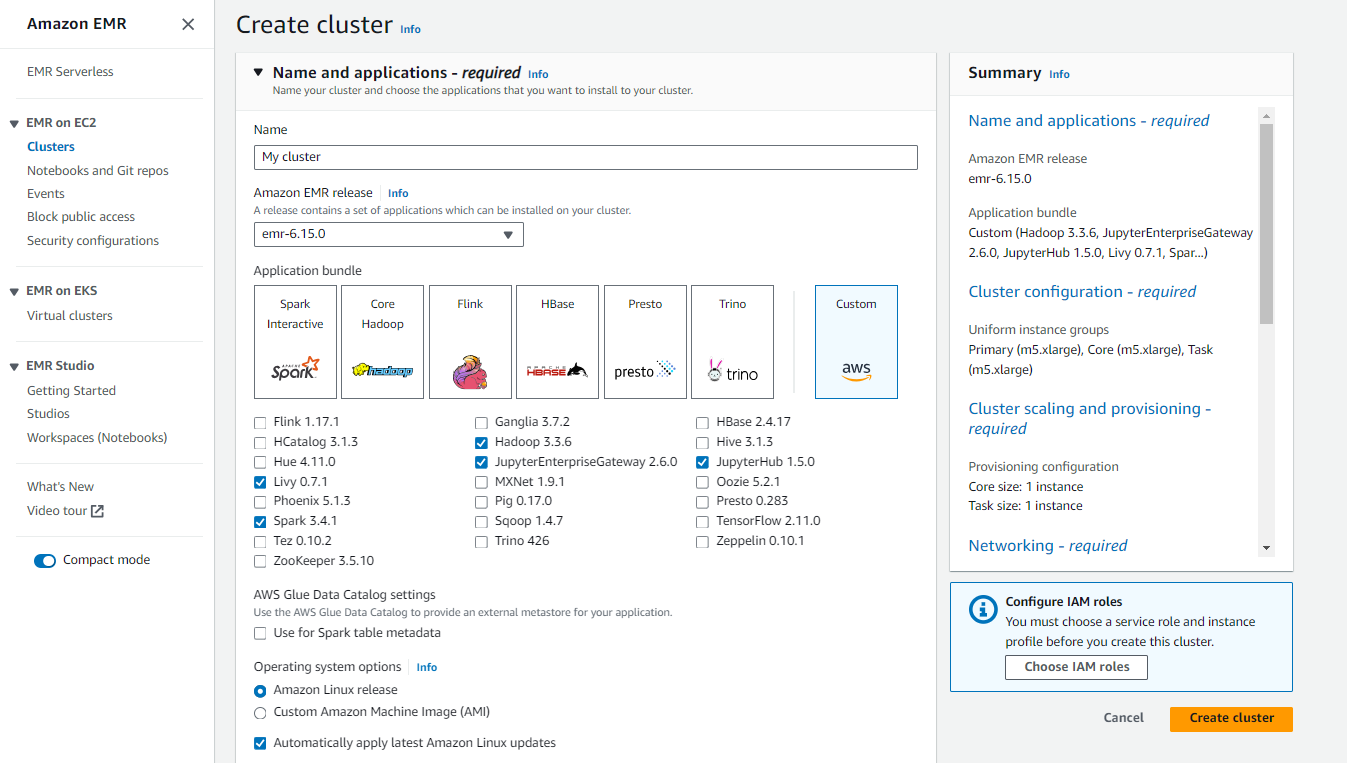
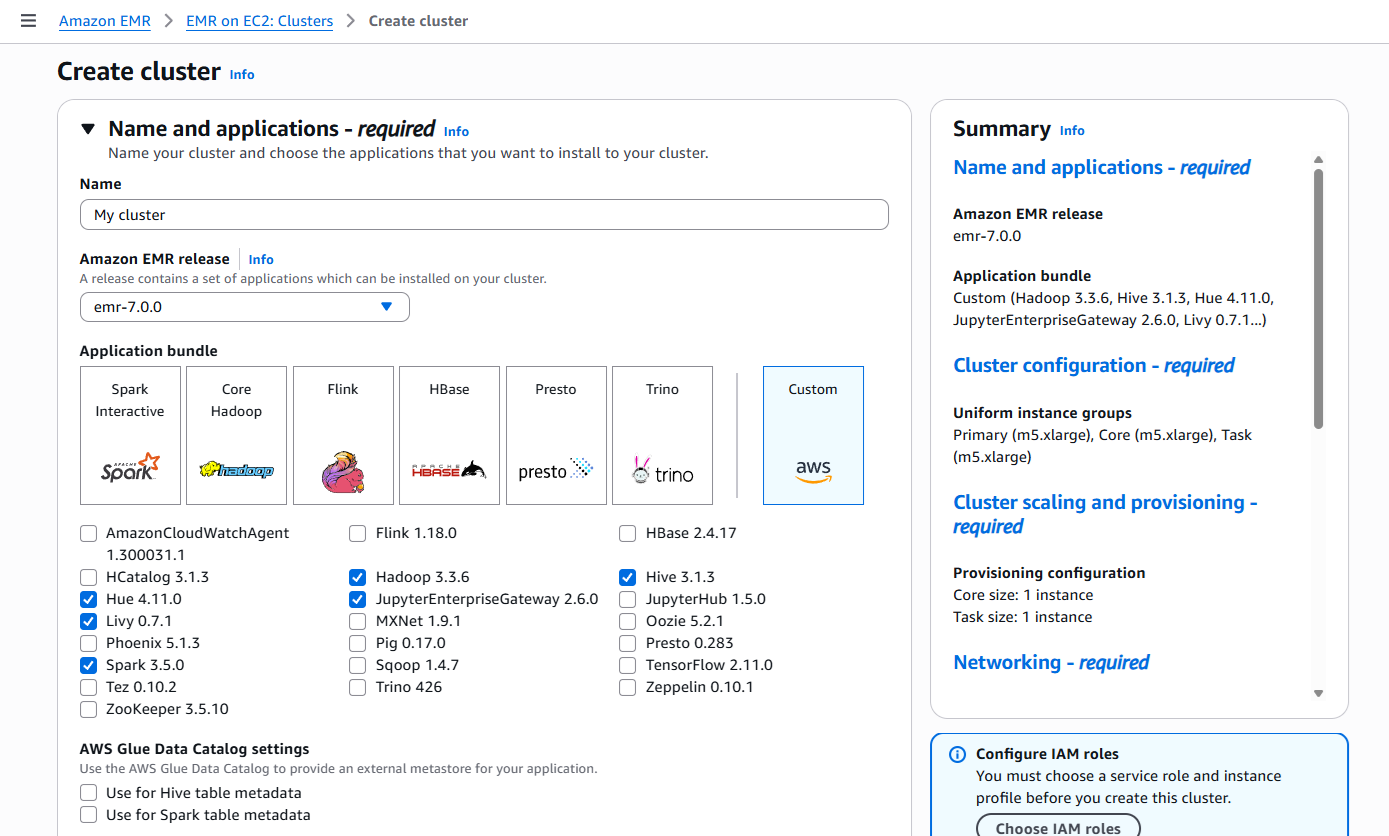
updated EMR doc

diff --git a/platforms/emr/README.md b/platforms/emr/README.md
@@ -12,8 +12,8 @@ This configuration is already ready-to-use for **EMR Notebooks**.
 ![alt text](image-1.png)
 
 #### 2- Click `create cluster` button, then select required applications:
-Please select Amazon EMR 7.x release version to use spark-nlp-jsl. In lower EMR versions, ONNX base models do not work due to system requirements.
-
+Please select Amazon EMR 7.x release version to use spark-nlp. In lower EMR versions, ONNX base models do not work due to system requirements.
+Discussion: https://github.com/JohnSnowLabs/spark-nlp/issues/14193
 ![alt text](image.png)
 
 
@@ -45,9 +45,18 @@ The script we'll use for this setup is `emr_bootstrap.sh` which is contained in 
 You need to put your credentials into `emr_bootstrap.sh` file <br/>
 
 #### 7. We will define spark parameters under Software settings tab:
+Please investigate official documentation for more information about EMR Spark configuration
+https://docs.aws.amazon.com/emr/latest/ReleaseGuide/emr-spark-configure.html
+
 
 ```
 [
+  {
+    "Classification": "spark",
+    "Properties": {
+      "maximizeResourceAllocation": "true"
+    }
+  },
   {
     "Classification": "spark-env",
     "Configurations": [
@@ -79,9 +88,7 @@ You need to put your credentials into `emr_bootstrap.sh` file <br/>
     "Classification": "spark-defaults",
     "Properties": {
       "spark.driver.maxResultSize": "0",
-      "spark.driver.memory": "64G",
       "spark.dynamicAllocation.enabled": "true",
-      "spark.executor.memory": "64G",
       "spark.executorEnv.SPARK_NLP_LICENSE": "XYXYXYXYXY",
       "spark.jsl.settings.aws.credentials.access_key_id": "XYXYXYXYXY",
       "spark.jsl.settings.aws.credentials.secret_access_key": "XYXYXYXYXY",
@@ -93,13 +100,17 @@ You need to put your credentials into `emr_bootstrap.sh` file <br/>
       "spark.serializer": "org.apache.spark.serializer.KryoSerializer",
       "spark.yarn.appMasterEnv.SPARK_NLP_LICENSE": "XYXYXYXYXY",
       "spark.yarn.preserve.staging.files": "true",
+      "spark.jsl.settings.storage.cluster_tmp_dir": "hdfs:///tmp",
       "spark.yarn.stagingDir": "hdfs:///tmp"
     }
   }
 ]
 ```
 **__Important__**:
-Make sure that you replace all the secret information(marked here as XYXYXYXYXY) with the appropriate values that you received with your license.<br/> 
+Make sure that you replace all the secret information(marked here as XYXYXYXYXY) with the appropriate values that you received with your license.<br/>
+
+**Automatic Resource Allocation**
+We don't configure driver or executor memory manually because we're utilizing the maximizeResourceAllocation feature.
 
 If you are having issues with the license, please contact JSL team at support@johnsnowlabs.com
 
@@ -109,15 +120,15 @@ Under **Tags** section, please add a `KEY: VALUE` pair with `for-use-with-amazon
 ![6](https://github.com/JohnSnowLabs/spark-nlp-workshop/assets/72014272/0f03d691-1681-4c94-a6f0-7a62ec4605f2)
 
 
-#### 7- Security
+#### 8 - Security
 After selecting a `EC2 key pair` - to connect the master node with `SSH` and select the IAM roles, we can click on the orange `Create Cluster` button and a Cluster will be created.
 
-#### 8-
+#### 9 -
 Make sure that license.johnsnowlabs.com and licensecheck.johnsnowlabs.com are on whitelist domains. If they are not, please whitelist these domains.
 
-#### 9- Start Notebooks Server
+#### 10 - Start Notebooks Server
 
 To open the Notebooks, you can create Workspaces from EMR Studio and attach the Cluster that you just created.
 
-#### 9- Any Doubt?
+#### 11 - Any Doubt?
 Write us to support@johnsnowlabs.com
